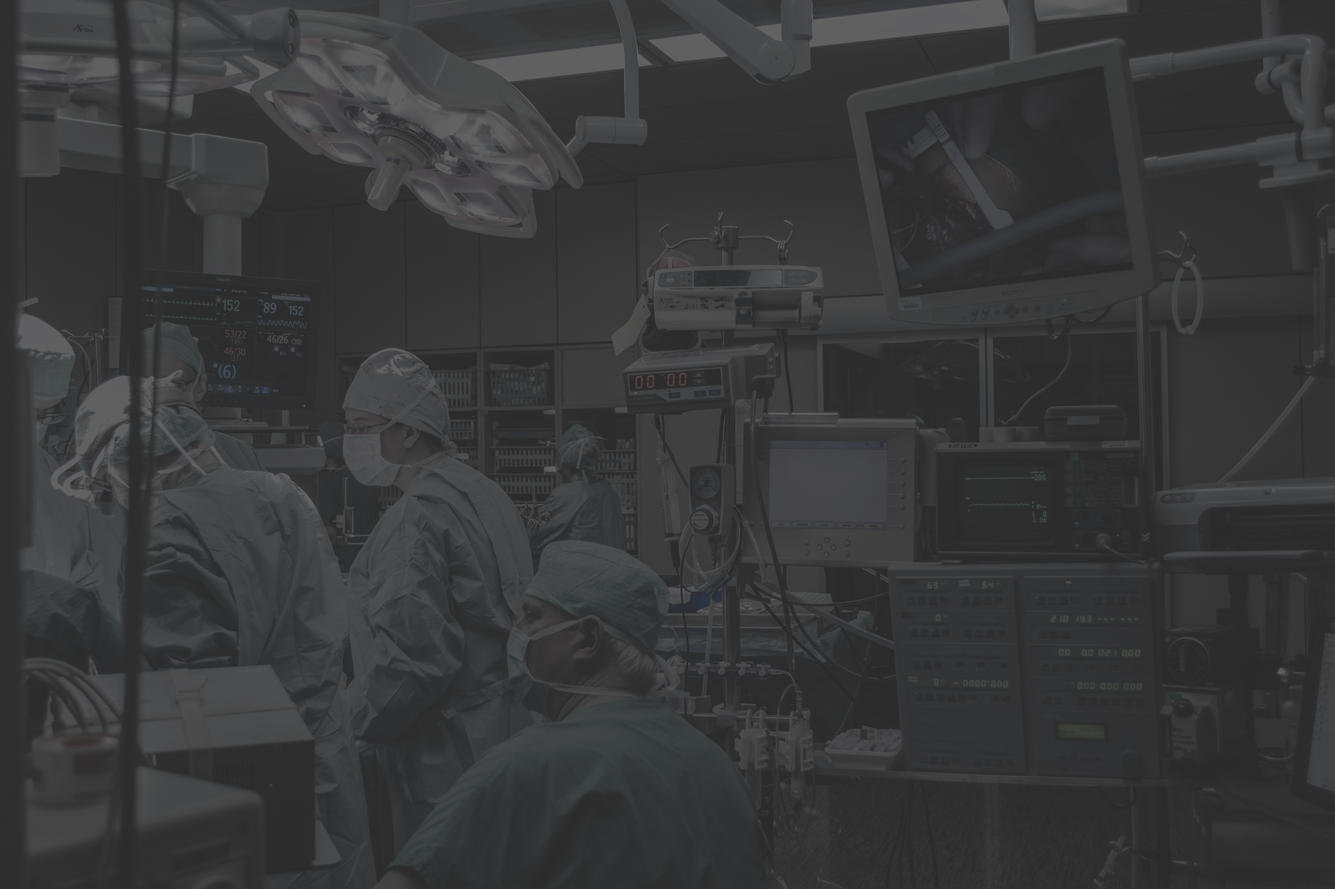
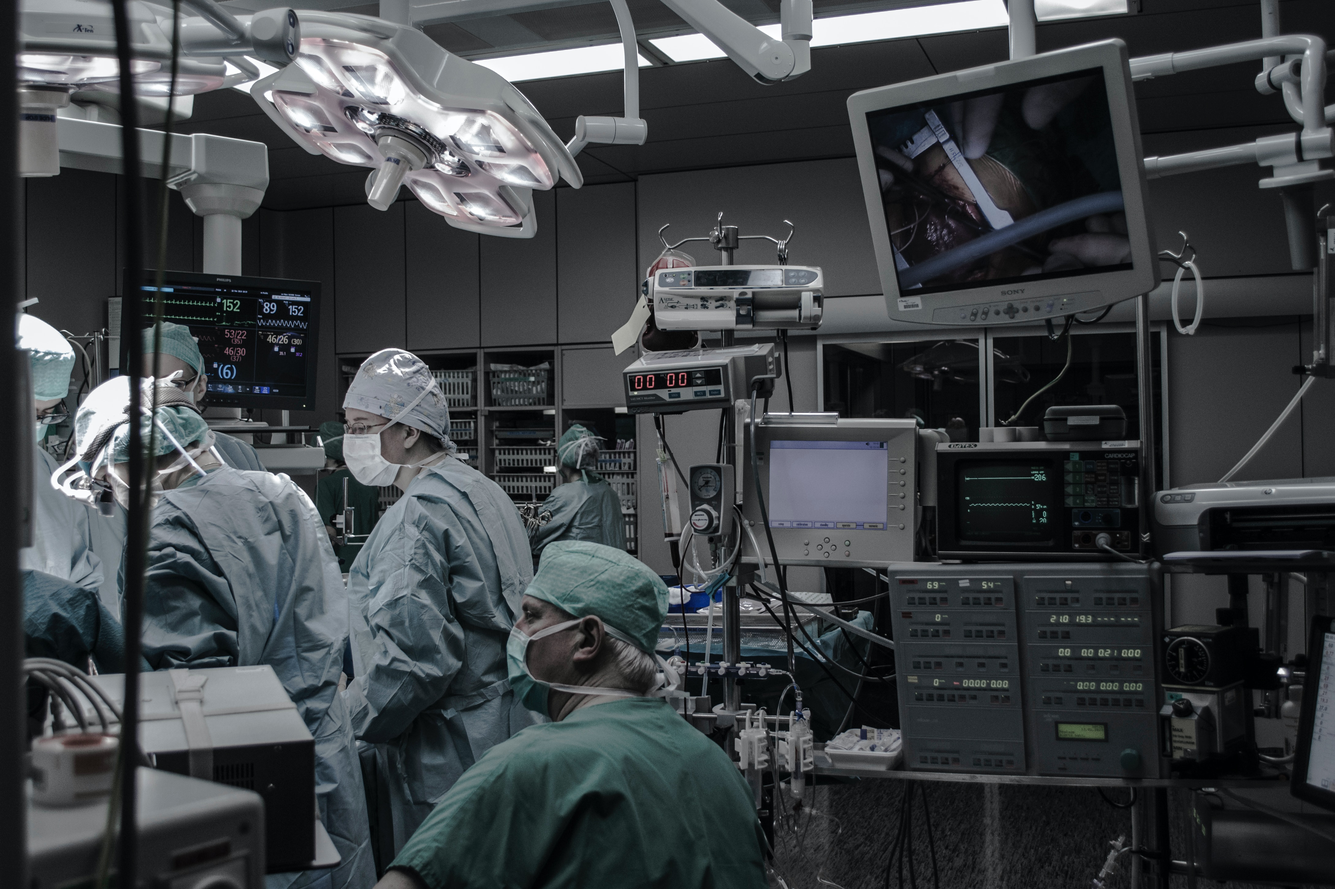
Edited blog content

diff --git a/_sass/components/_tiles.scss b/_sass/components/_tiles.scss
@@ -79,7 +79,7 @@
 			}
 
 			&:after {
-				background-color: transparentize(_palette(bg), 0.75);
+				background-color: transparentize(_palette(bg), 0.65);
 				content: '';
 				display: block;
 				height: 100%;
